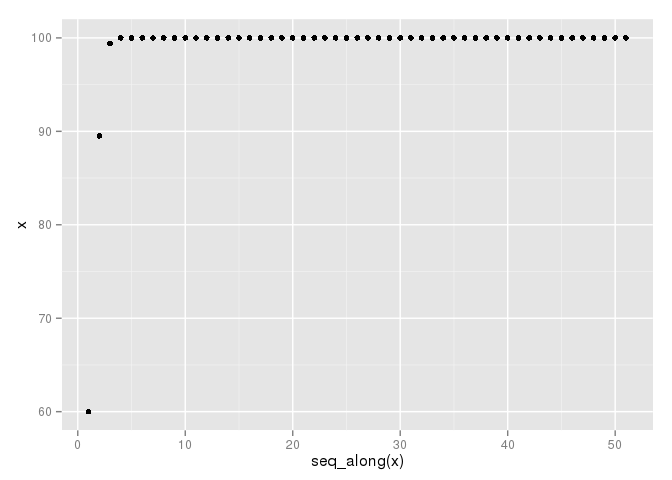
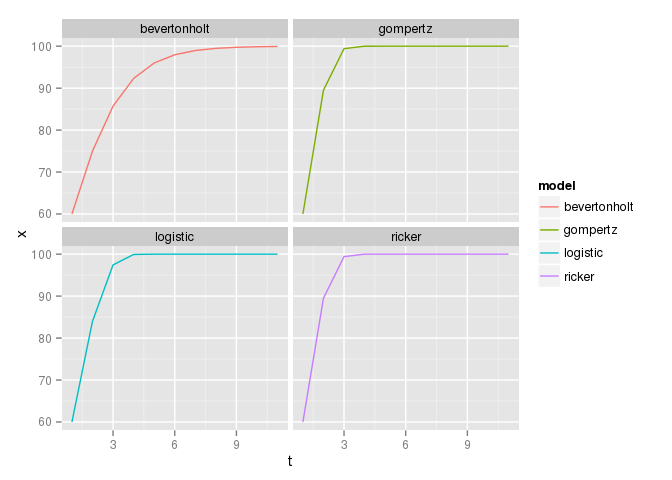
update robust to model, showing model simulations, corrected results graph

diff --git a/inst/scripts/robust_to_model.md b/inst/scripts/robust_to_model.md
@@ -20,25 +20,35 @@ library("multipleuncertainty")
 knitr::opts_chunk$set(cache = TRUE)
 ```
 
+Simulation of the growth function illustrates roughly comparable parameter values (e.g. same unfished equilibrium value)
+
 ``` r
-f <- gompertz
-x <- numeric(50)
-x[1] <- 60
-for(t in 1:length(x))
-  x[t+1] = f(x[t], 0)
-qplot(seq_along(x), x)
+sims <- function(model){
+  f <- get(model)
+  x <- numeric(10)
+  x[1] <- 60
+  for(t in 1:length(x))
+    x[t+1] = f(x[t], 0)
+  data.frame(x, t = 1:length(x))
+}
+
+
+df <- 
+data.frame(model = c("logistic", "bevertonholt", "ricker", "gompertz"), stringsAsFactors = FALSE) %>%
+  dplyr::group_by(model) %>%
+  dplyr::do(sims(.$model))
+
+ggplot(df, aes(x = t, y = x, color = model)) + geom_line() + facet_wrap(~model)
 ```
 
 ![](robust_to_model_files/figure-markdown_github/unnamed-chunk-2-1.png)
 
+Optimal control under multiple uncertainty by model:
+
 ``` r
 fig3 <- function(model){  
   grid <- seq(0, 200, length = 401)
-  model <- switch(model,
-         logistic = logistic,
-         bevertonholt = bevertonholt,
-         ricker = ricker,
-         gompertz = gompertz)
+  model <- get(model)
   small     <- multiple_uncertainty(f = model, x_grid = grid, sigma_g = 0.1, sigma_m = 0.1, sigma_i = 0.1)
   growth    <- multiple_uncertainty(f = model, x_grid = grid, sigma_g = 0.5, sigma_m = 0.1, sigma_i = 0.1)
   measure   <- multiple_uncertainty(f = model, x_grid = grid, sigma_g = 0.1, sigma_m = 0.5, sigma_i = 0.1)
@@ -57,10 +67,12 @@ data.frame(model = c("logistic", "bevertonholt", "ricker", "gompertz"), stringsA
 ``` r
 df %>%
   ggplot(aes(x = y_grid, y = value, col = scenario)) + 
-    geom_point()  + facet_wrap(~model, ncol = 2) + 
-    xlab("Stock") + ylab("Escapement") + 
+    geom_point()  + 
+    facet_wrap(~model, ncol = 2) + 
+    xlab("Stock") + 
+    ylab("Escapement") + 
     coord_cartesian(xlim = c(0, 150), ylim = c(0,100)) + 
-    theme_bw() 
+    theme_bw()
 ```
 
 ![](robust_to_model_files/figure-markdown_github/unnamed-chunk-4-1.png)
